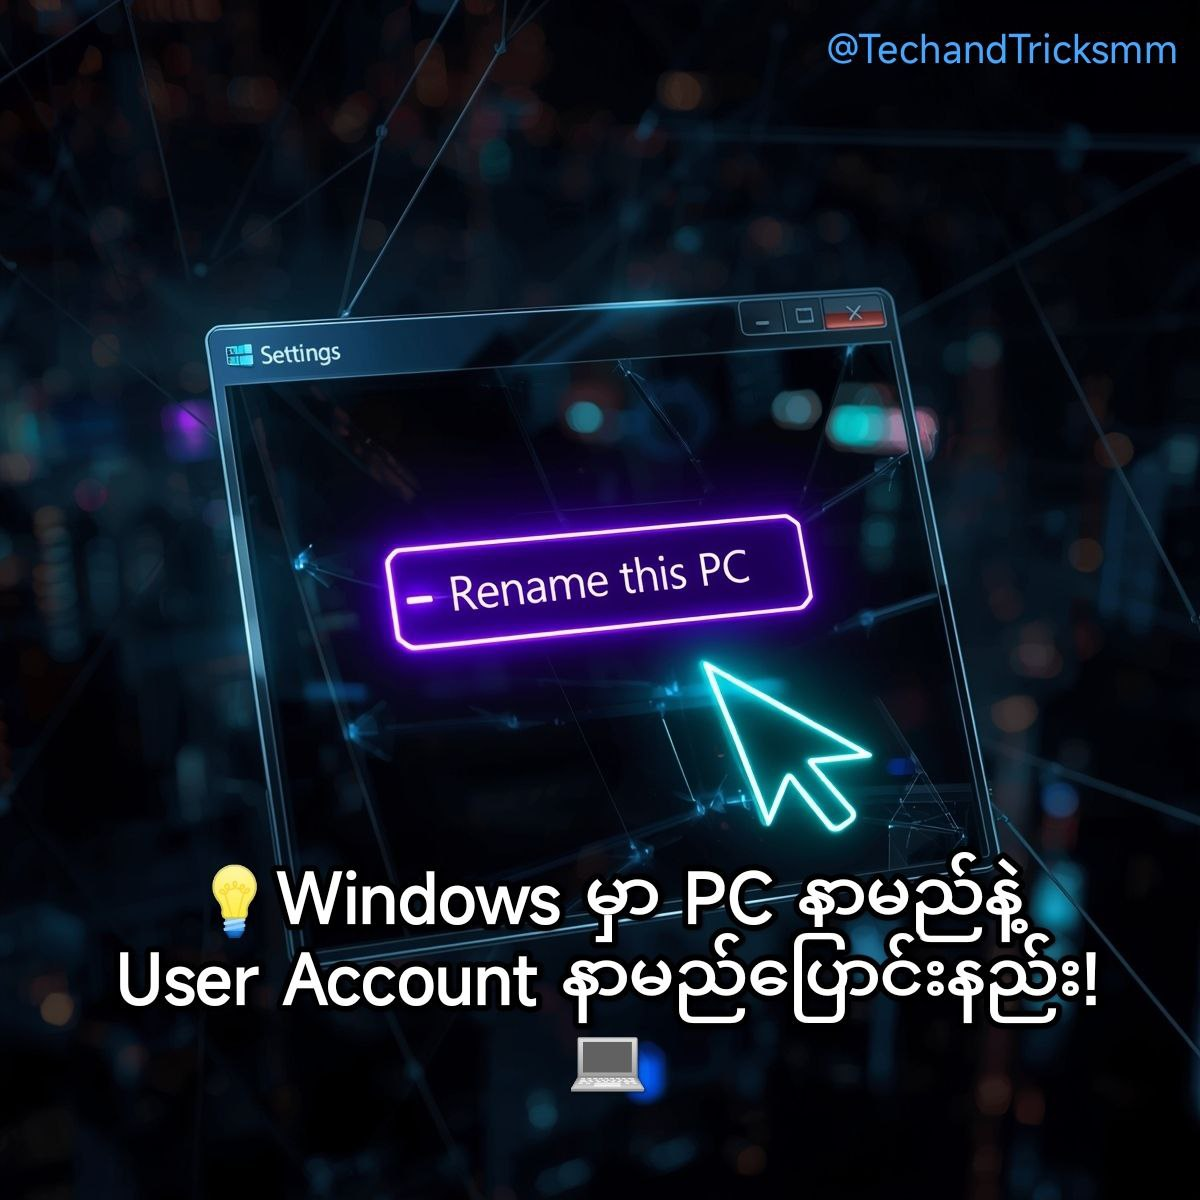
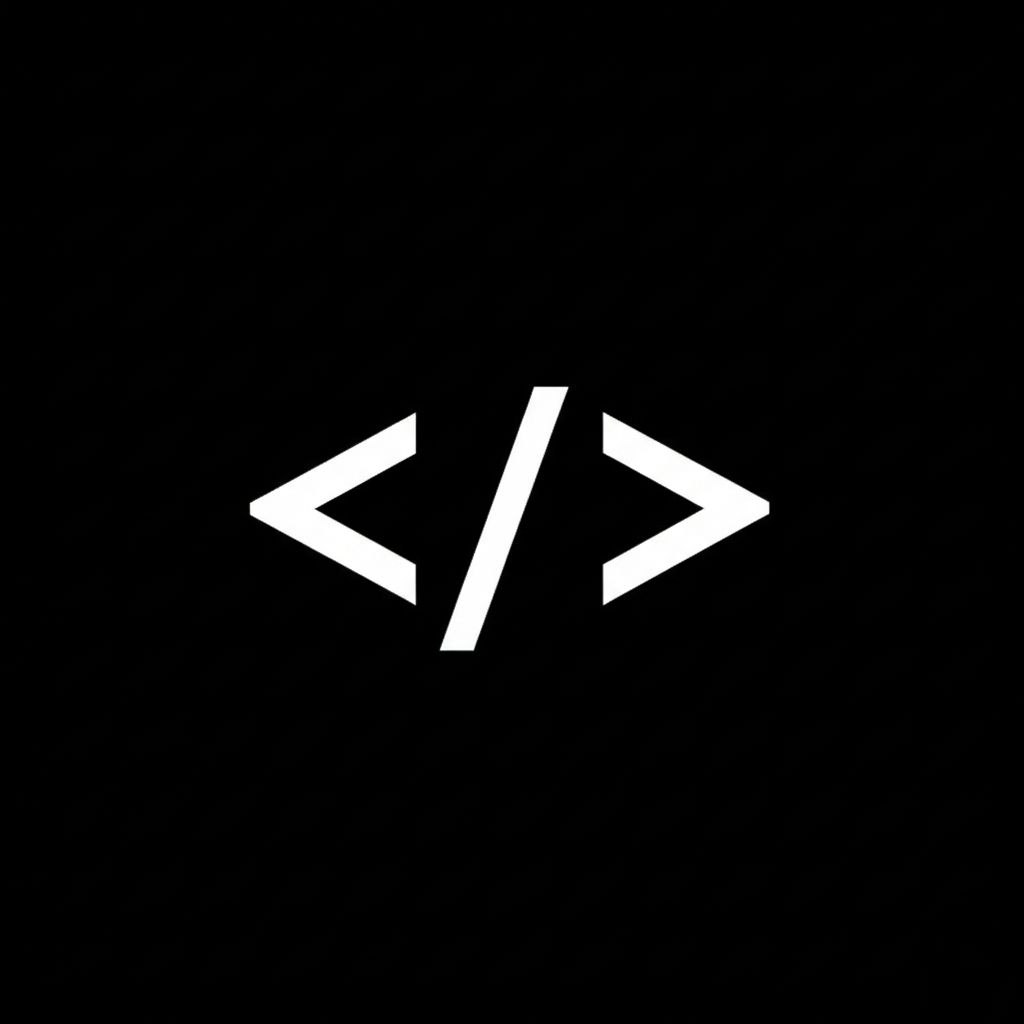
repair header,about and project sections

diff --git a/src/components/Header.jsx b/src/components/Header.jsx
@@ -49,16 +49,21 @@ function Header() {
 
         <p className="intro">
           <p>
-            I am Lamin Hein, a fullstack developer specializing in React,
-            Nodejs and modern web design. I build responsive and
-            high-performance web applications.
+            I am Lamin Hein, a fullstack developer specializing in React, Nodejs
+            and modern web design. I build responsive and high-performance web
+            applications.
           </p>
         </p>
         <div className="buttons">
-          <button className="contact_me">
-            Contact Me <FontAwesomeIcon icon={faArrowRightLong} />
-          </button>
-          <button className="download_cv">
+          <a className="contact_me" href="https://t.me/laminhein1122" rel="noopener noreferrer" target="_blank">
+            🚀Let's Talk <FontAwesomeIcon icon={faArrowRightLong} />
+          </a>
+          <button
+            className="download_cv"
+            onClick={() => {
+              alert("✨Comming Soon...");
+            }}
+          >
             Download CV <FontAwesomeIcon icon={faDownload} />
           </button>
         </div>

diff --git a/src/style/Header.css b/src/style/Header.css
@@ -76,6 +76,7 @@
     justify-content: center;
     align-items: center;
     padding: 1rem;
+    gap: 0.5rem;
 }
 
 .buttons button {
@@ -85,6 +86,9 @@
 }
 
 .buttons .contact_me {
+    text-decoration: none;
+    text-align: center;
+    z-index: 1000;
     border: none;
     border-radius: 20px;
     padding: 0.8rem 2rem;
@@ -107,9 +111,10 @@
 }
 
 .buttons .download_cv {
+
     border: 1px solid white;
     border-radius: 20px;
-    padding: 0.8rem 2rem;
+    padding: 0.9rem 2rem;
     font-size: 0.95rem;
     background-color: white;
     color: black;

diff --git a/src/components/About.jsx b/src/components/About.jsx
@@ -45,7 +45,7 @@ function About() {
             <p>Mongodb</p>
           </div>
 
-          <p className="titletext">AI Integrations and Automations</p>
+          <p className="titletext">Integrations and Automations</p>
 
           <p className="context">
             · <b>AI Integration</b>: Exploring the practical application of AI

diff --git a/src/style/About.css b/src/style/About.css
@@ -98,6 +98,10 @@
         margin-top: 1rem;
     }
 
+    .text .context{
+        margin-top: 1.5rem;
+    }
+
 
 
 }
